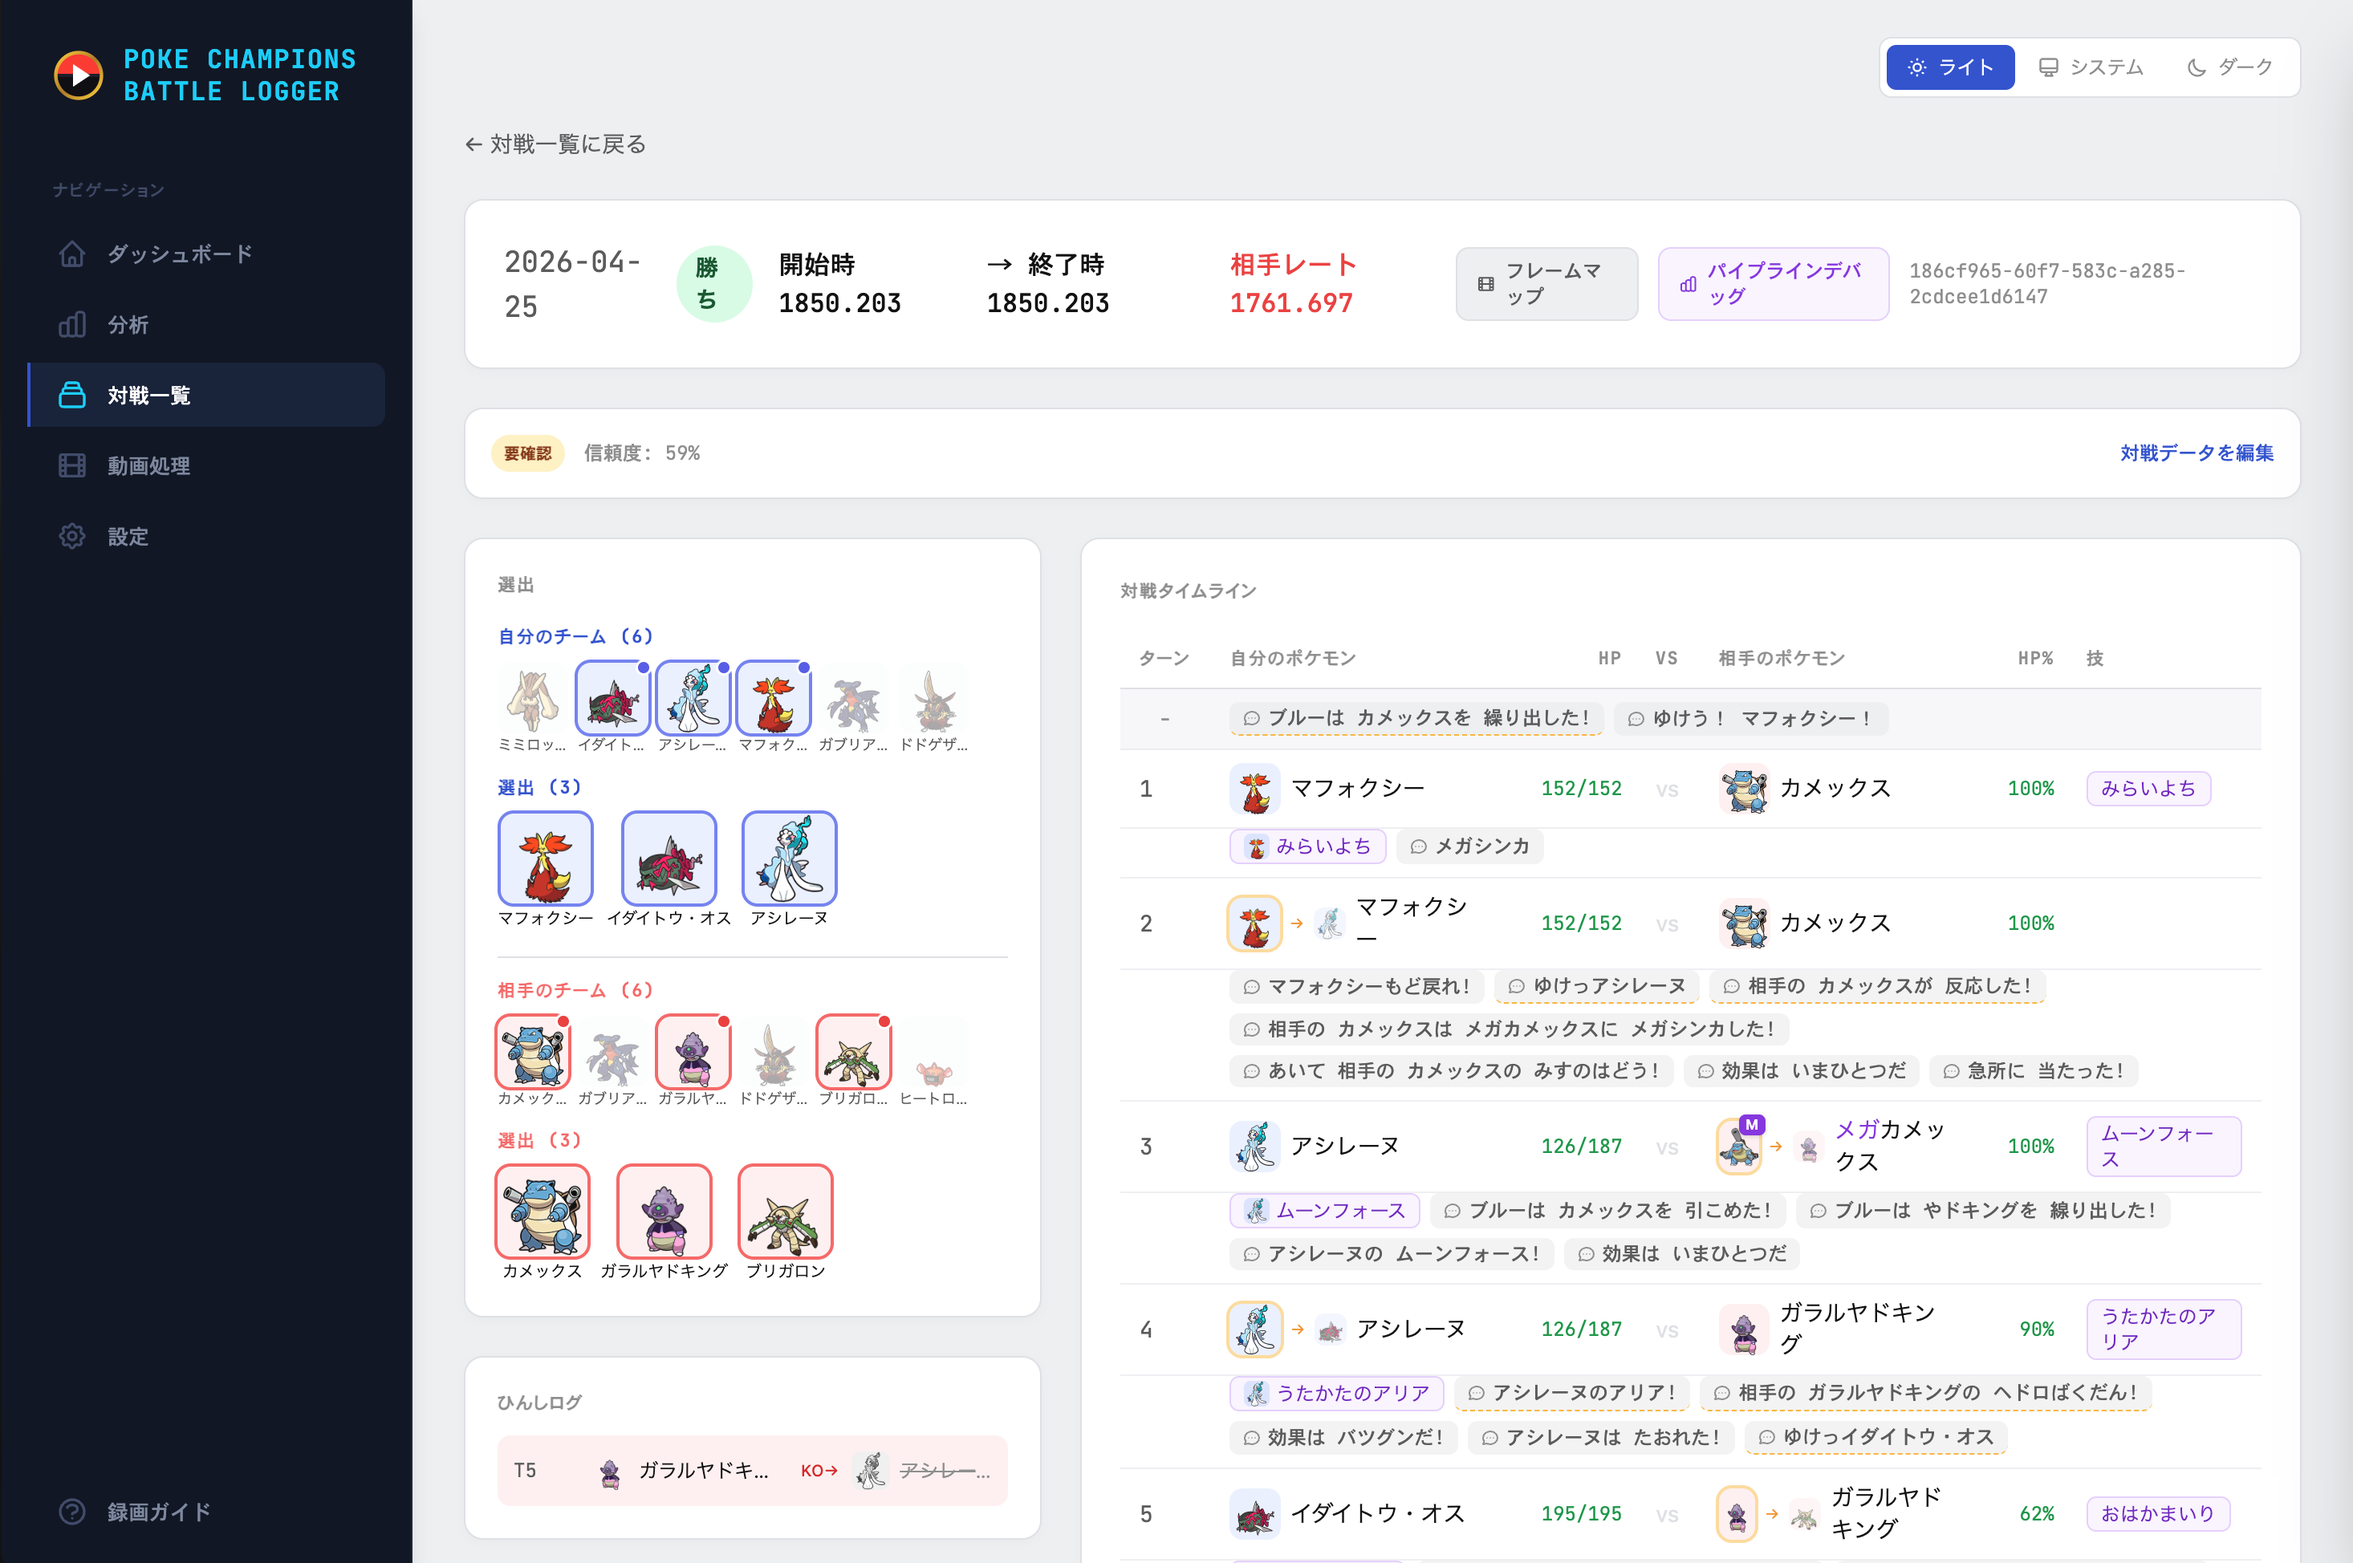
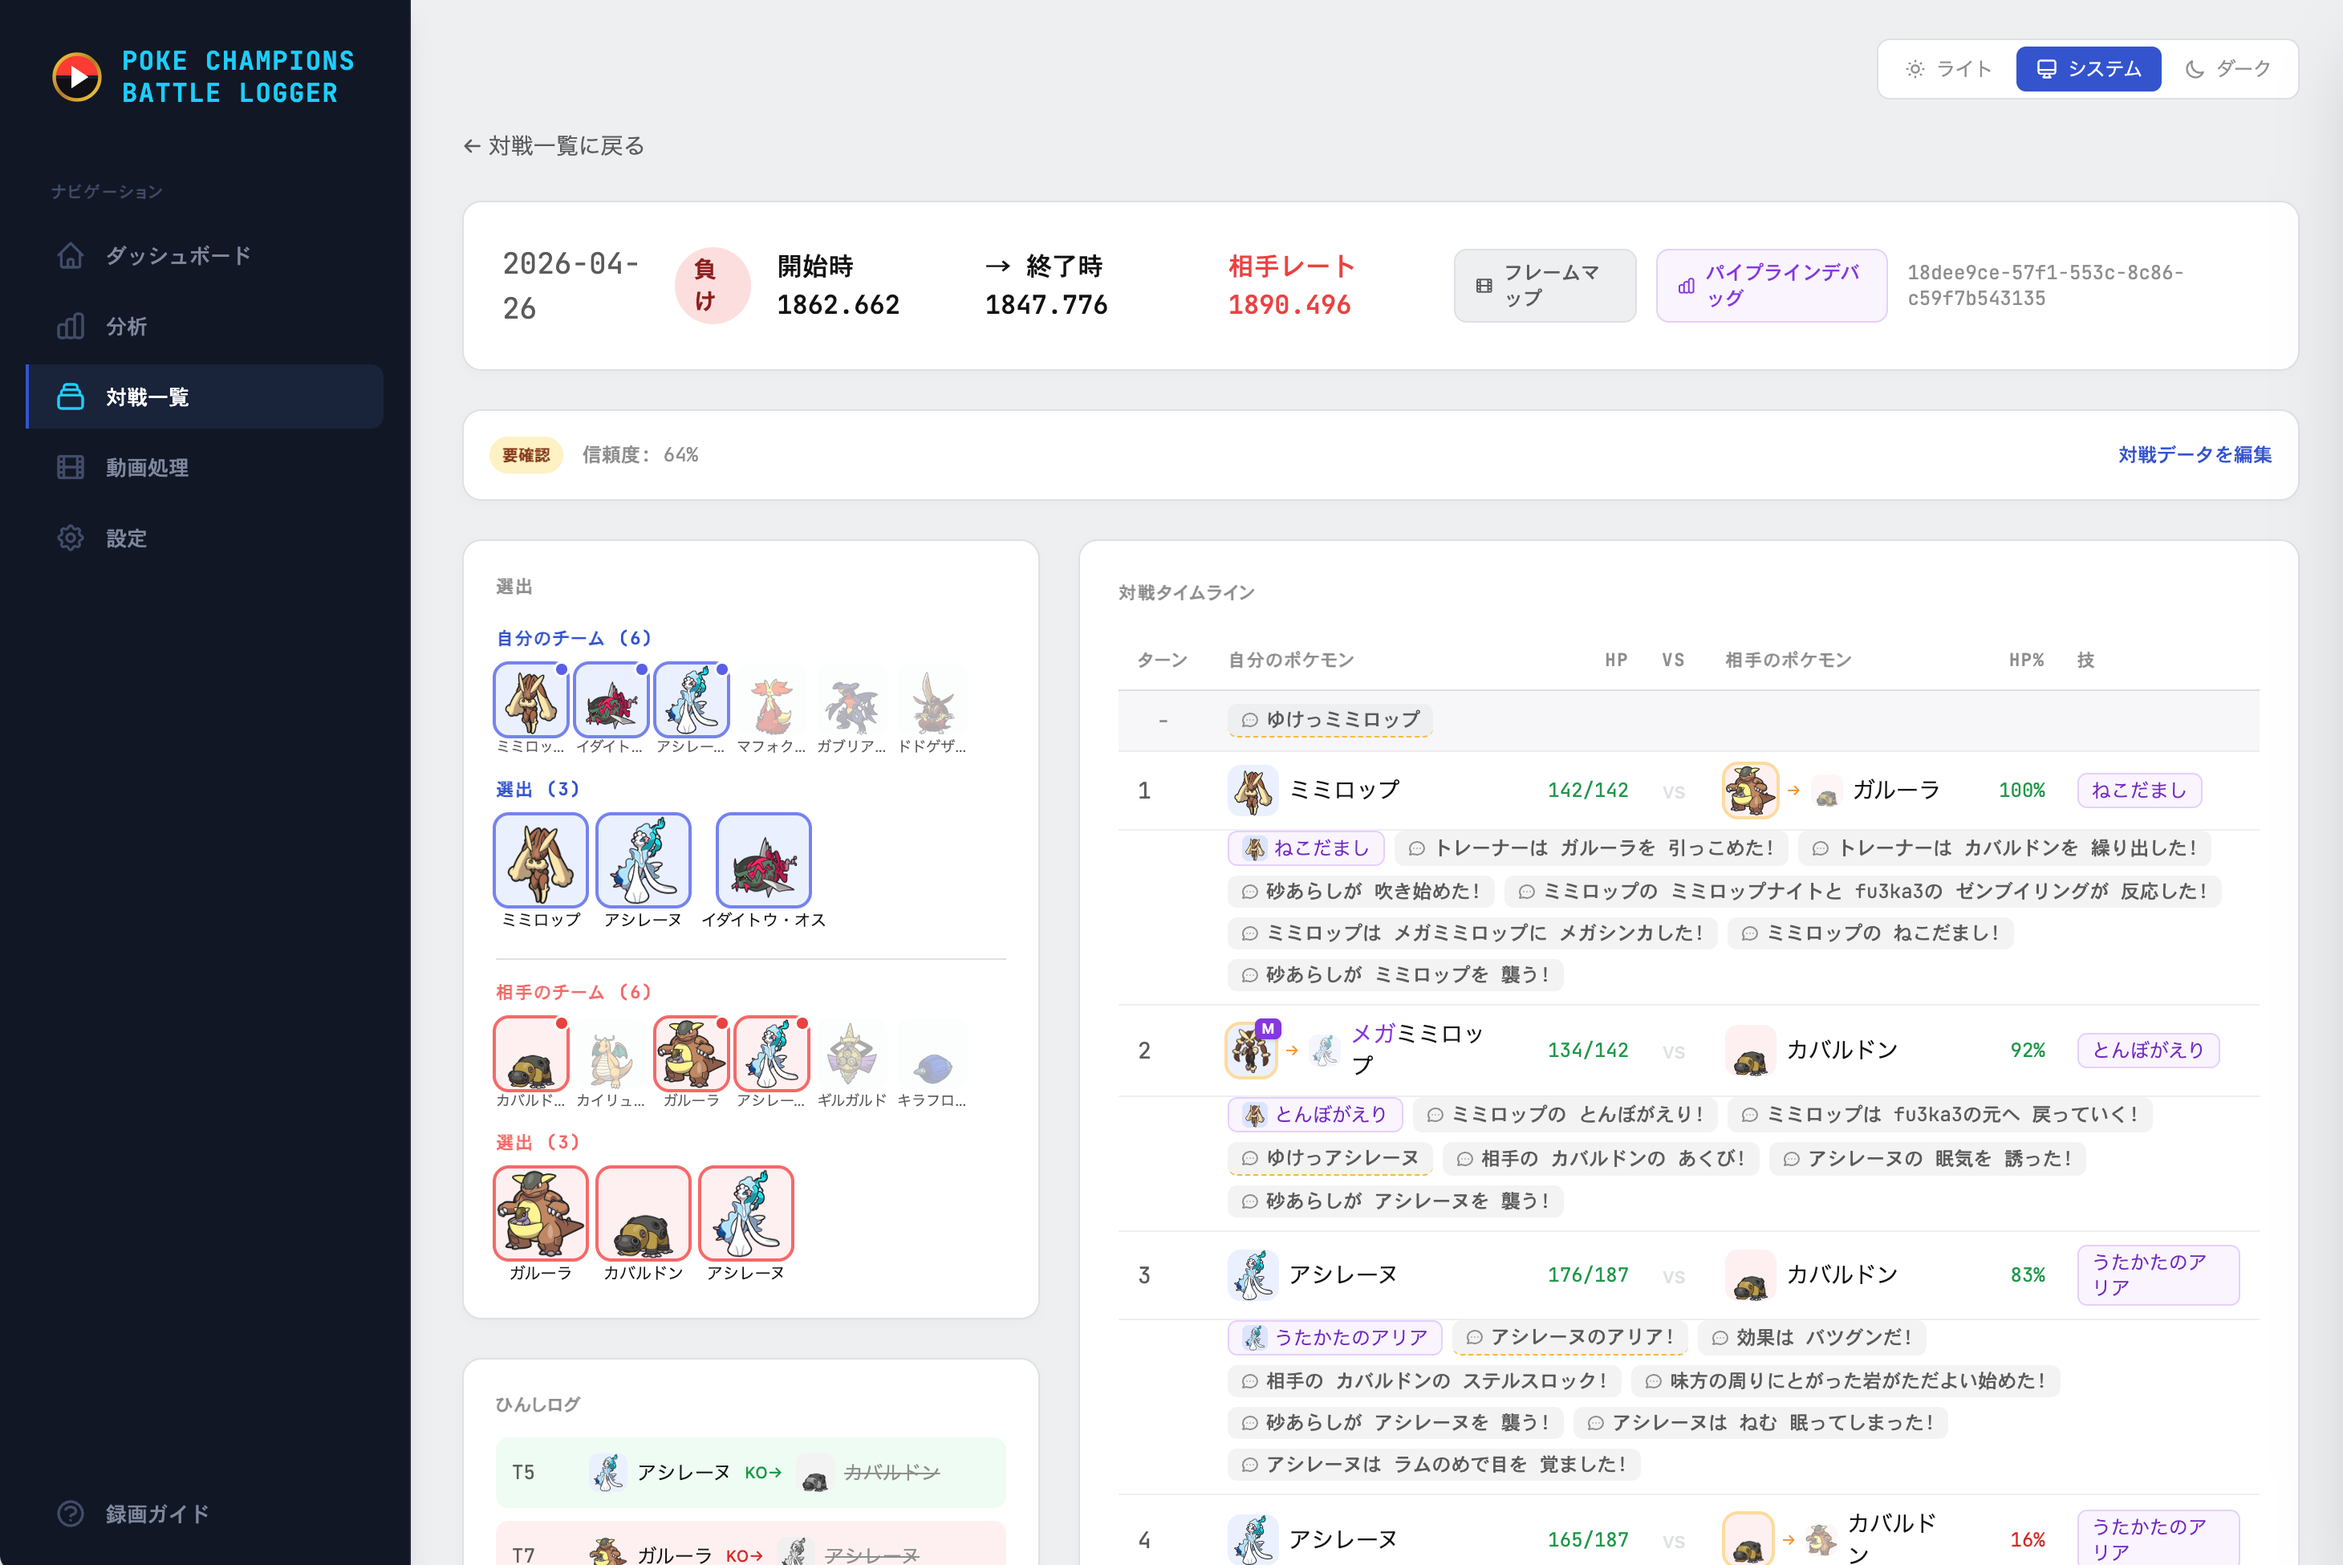
Wire LP Download buttons to releases and add README screenshots
- Point all Download CTAs (nav, hero, mobile, footer, final CTA) to /releases/latest
- Fix broken </a> in footer Discord link
- Replace Coming soon placeholder with actual screenshots in README
- Refresh battle_detail.png

diff --git a/docs/index.html b/docs/index.html
@@ -338,7 +338,9 @@
                     EN
                 </button>
                 <a
-                    href="#download"
+                    href="https://github.com/fufufukakaka/pokemon_champions_battle_logger/releases/latest"
+                    target="_blank"
+                    rel="noopener noreferrer"
                     class="bg-accent text-page text-[13px] font-semibold px-5 py-2 rounded-md hover:bg-accent-hover transition"
                     data-i18n="nav.download"
                     >Download</a
@@ -430,7 +432,9 @@
                         EN
                     </button>
                     <a
-                        href="#download"
+                        href="https://github.com/fufufukakaka/pokemon_champions_battle_logger/releases/latest"
+                        target="_blank"
+                        rel="noopener noreferrer"
                         onclick="toggleMobileMenu()"
                         class="bg-accent text-page text-base font-semibold px-8 py-3 rounded-md mt-4"
                         data-i18n="nav.download"
@@ -472,7 +476,9 @@
                 class="flex flex-col sm:flex-row items-center gap-3 w-full sm:w-auto"
             >
                 <a
-                    href="#download"
+                    href="https://github.com/fufufukakaka/pokemon_champions_battle_logger/releases/latest"
+                    target="_blank"
+                    rel="noopener noreferrer"
                     class="flex items-center justify-center gap-2 bg-accent text-page font-semibold text-[15px] px-8 py-3.5 rounded-lg hover:bg-accent-hover transition w-full sm:w-auto"
                 >
                     <svg
@@ -975,7 +981,9 @@
                 class="flex flex-col sm:flex-row items-center gap-3 w-full sm:w-auto"
             >
                 <a
-                    href="#"
+                    href="https://github.com/fufufukakaka/pokemon_champions_battle_logger/releases/latest"
+                    target="_blank"
+                    rel="noopener noreferrer"
                     class="flex items-center justify-center gap-2.5 bg-accent text-page font-semibold text-base px-10 py-4 rounded-lg hover:bg-accent-hover transition w-full sm:w-auto"
                 >
                     <svg
@@ -1104,7 +1112,9 @@
                             >Features</a
                         >
                         <a
-                            href="#download"
+                            href="https://github.com/fufufukakaka/pokemon_champions_battle_logger/releases/latest"
+                            target="_blank"
+                            rel="noopener noreferrer"
                             class="text-[13px] text-text-muted hover:text-text-secondary transition-colors"
                             data-i18n="footer.col1.2"
                             >Download</a
@@ -1161,7 +1171,7 @@
                             rel="noopener noreferrer"
                             class="text-[13px] text-text-muted hover:text-text-secondary transition-colors"
                             data-i18n="footer.col3.2"
-                            >Discord</
+                            >Discord</a
                         >
                         <a
                             href="#"

diff --git a/README.md b/README.md
@@ -57,9 +57,29 @@ The macOS build is code-signed and notarized by Apple, so it should launch witho
 
 ## Screenshots
 
-<!-- TODO: Add screenshots -->
+### Dashboard
 
-*Coming soon*
+<p align="center">
+  <img src="docs/dashboard.png" alt="Dashboard" width="800">
+</p>
+
+### Video Processing
+
+<p align="center">
+  <img src="docs/upload_and_process_video.png" alt="Video Processing" width="800">
+</p>
+
+### Analysis
+
+<p align="center">
+  <img src="docs/analysis.png" alt="Analysis" width="800">
+</p>
+
+### Battle Detail
+
+<p align="center">
+  <img src="docs/battle_detail.png" alt="Battle Detail" width="800">
+</p>
 
 ## Requirements
 
